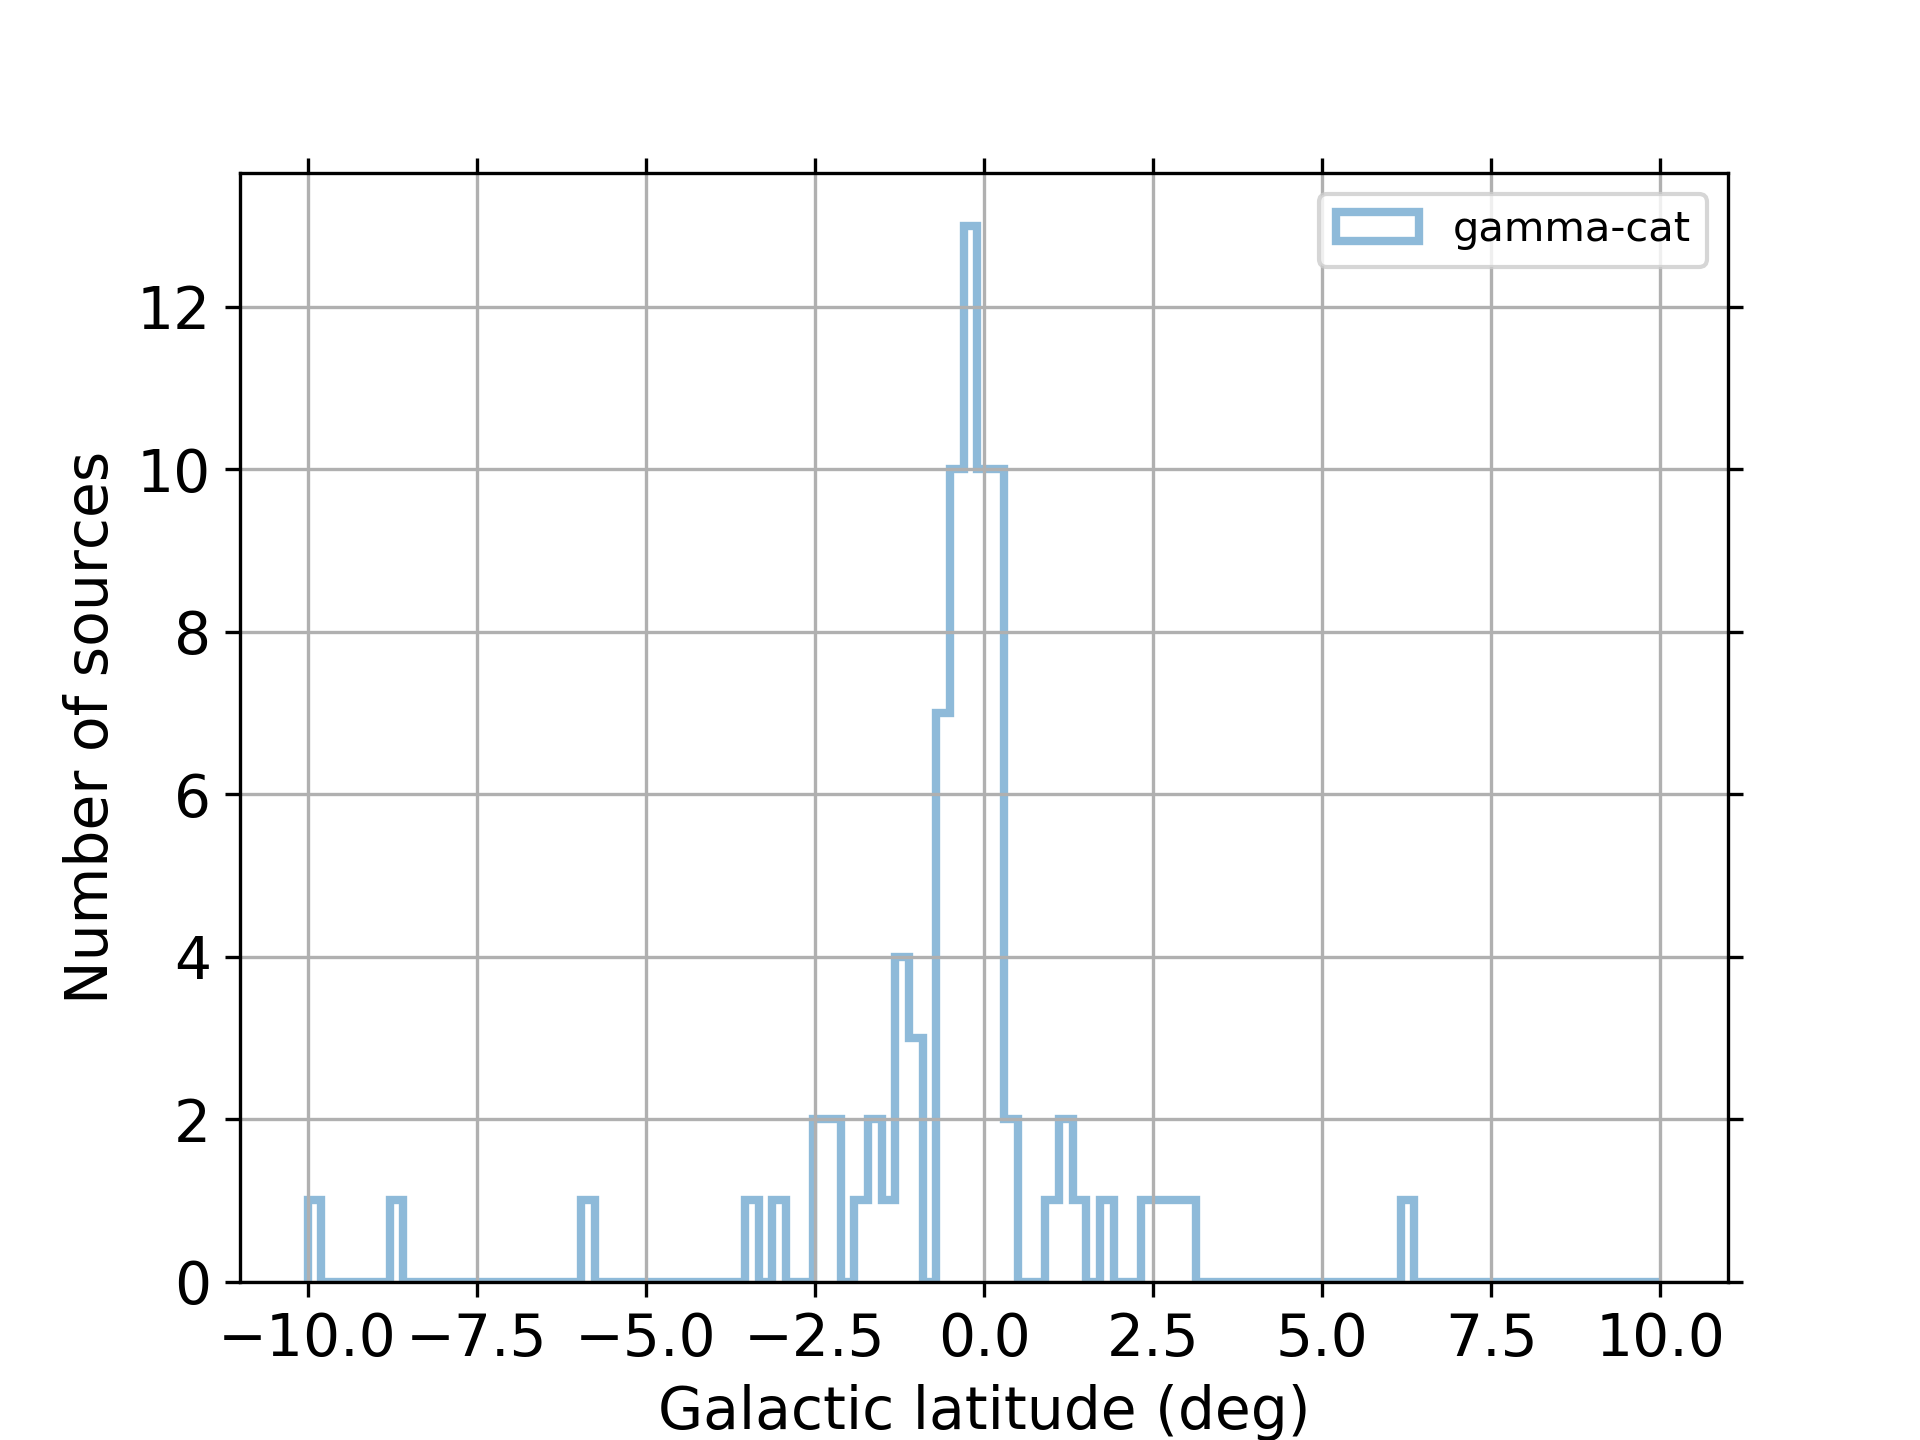
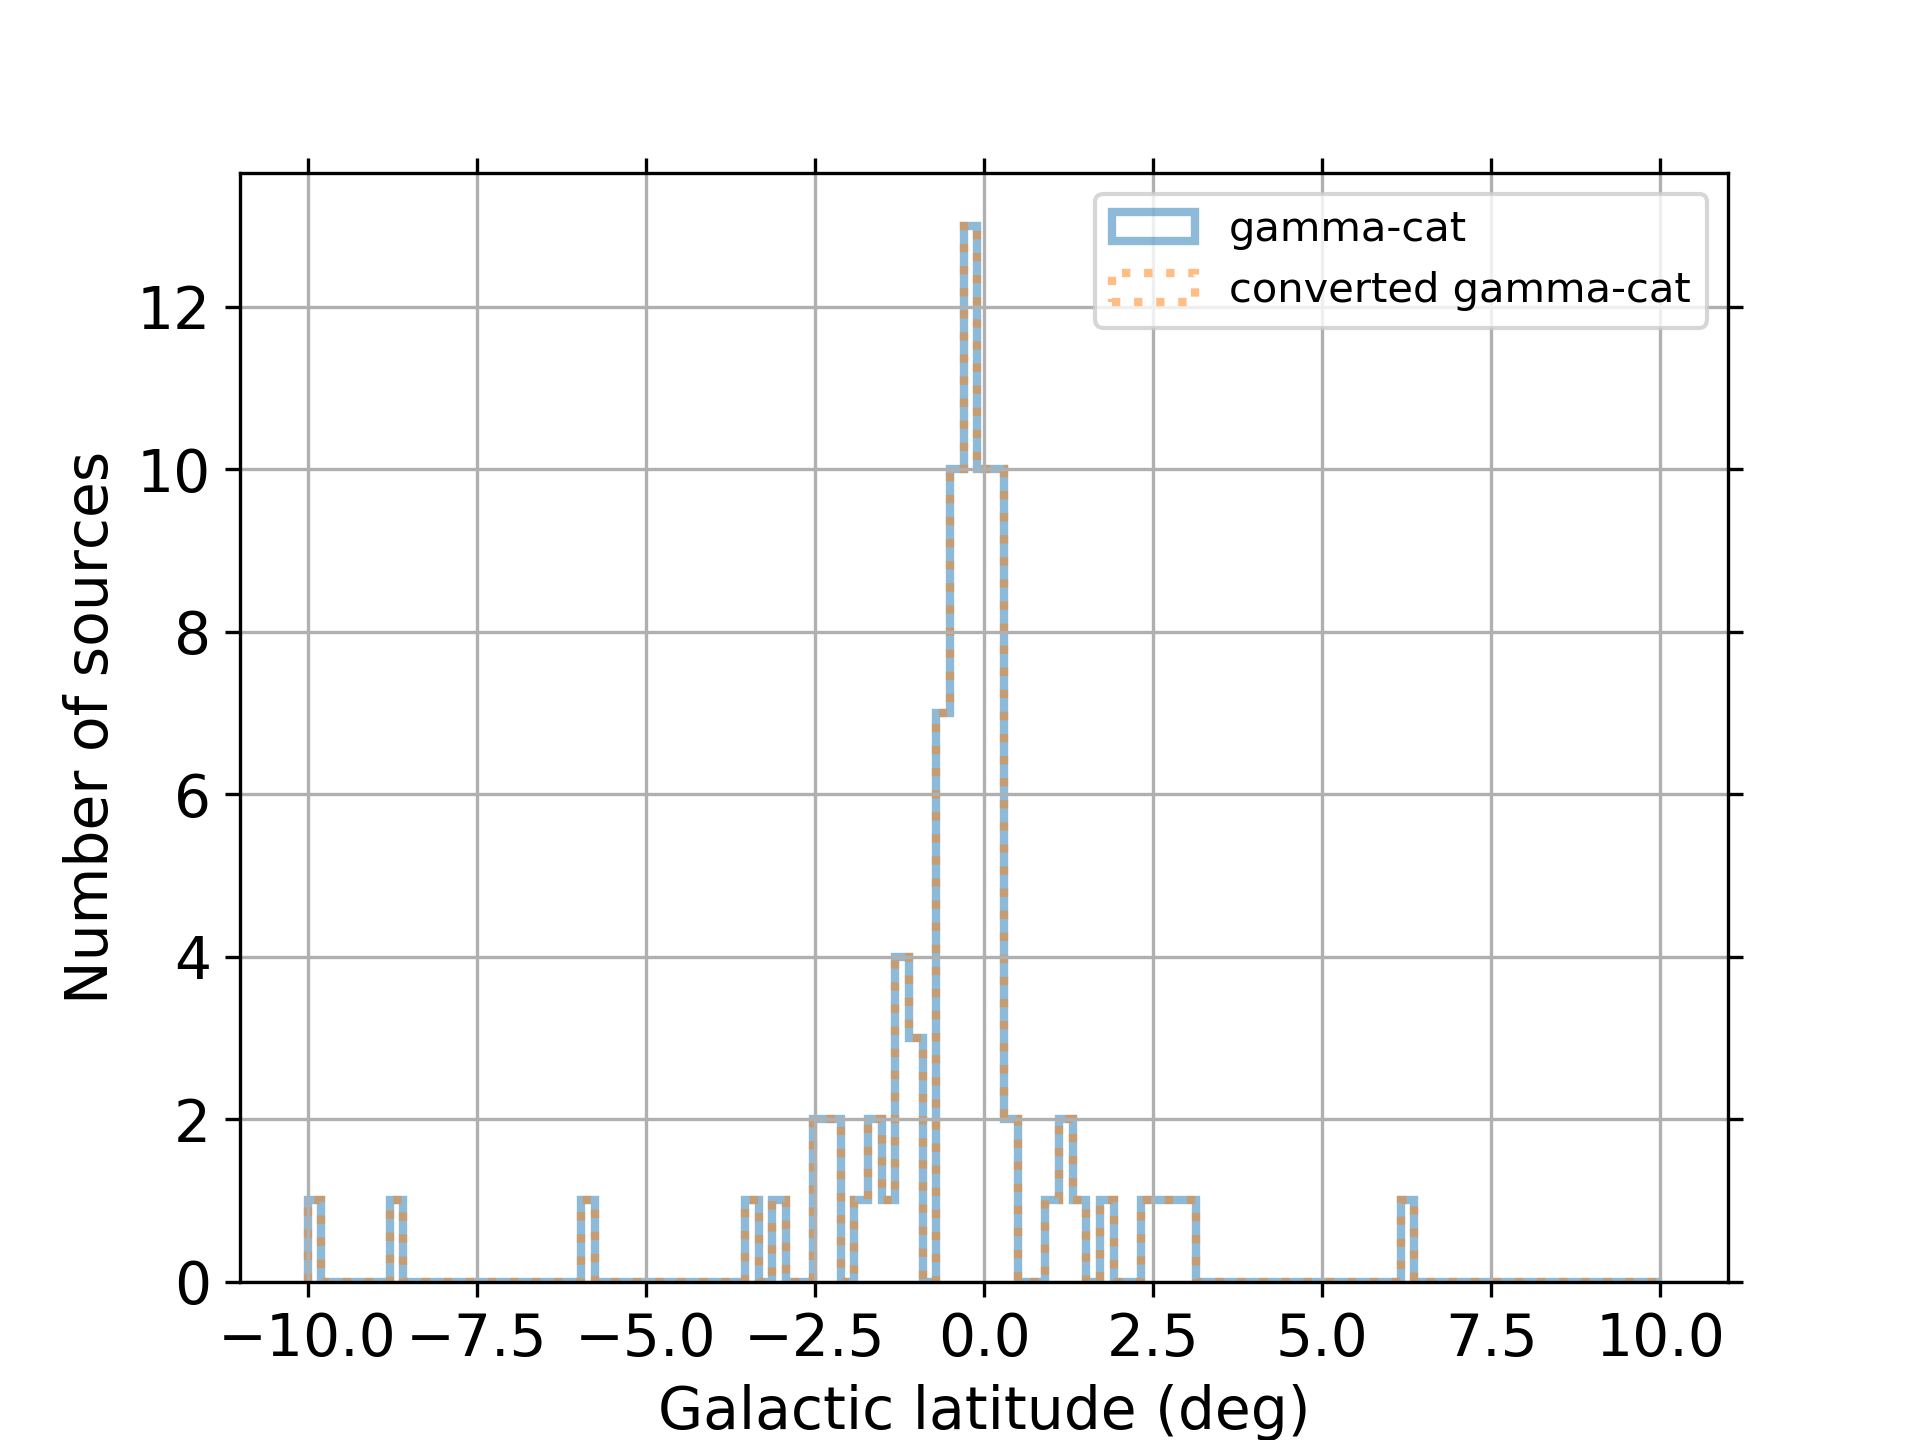
working on diagnostic plots
also fixed issue with max energy for PL2 models

diff --git a/skymodel/scripts/make_model.py b/skymodel/scripts/make_model.py
@@ -118,12 +118,14 @@ for source in gammacat:
                 flux = source['spec_pl2_flux']
                 emin = source['spec_pl2_e_min']
                 emax = source['spec_pl2_e_max']
+                if np.isnan(emax):
+                    emax = 1.e6
                 # for sources modeled by PL2 take pivot energy at 1 TeV
                 eref = gammalib.GEnergy(1., 'TeV')
                 norm = flux * (-index + 1) / (
                         np.power(emax, -index + 1) - np.power(emin, -index + 1))
             # convert norm from ph cm-2 s-1 TeV-1 (gamma-cat) to ph cm-2 s-1 MeV-1 (gammalib)
-            norm *= 1.e6
+            norm *= 1.e-6
             if False:
                 # implement fake PeVatron correction
                 pass
@@ -137,7 +139,7 @@ for source in gammacat:
             eref = gammalib.GEnergy(np.double(source['spec_ecpl_e_ref']), 'TeV')
             ecut = gammalib.GEnergy(np.double(source['spec_ecpl_e_cut']), 'TeV')
             # convert norm from ph cm-2 s-1 TeV-1 (gamma-cat) to ph cm-2 s-1 MeV-1 (gammalib)
-            norm *= 1.e6
+            norm *= 1.e-6
             index = np.double(index)
             norm = np.double(norm)
             spectral = gammalib.GModelSpectralExpPlaw(norm, -index, eref, ecut)
@@ -156,6 +158,8 @@ for source in gammacat:
             gammacat_lats.append(lat)
             gammacat_flux.append(source['spec_flux_1TeV_crab'])
 
+print('Added {} gamma-cat sources'.format(len(gammacat_ids)))
+
 # renormalize gamma-cat flux so that they are in Crab units
 gammacat_flux = np.array(gammacat_flux)
 gammacat_flux *= 1.e-2
@@ -172,6 +176,34 @@ ax2.hist(gammacat_lons, bins=bins_lon, density=False, histtype='step',
 ax3.hist(gammacat_lats, bins=bins_lat, density=False, histtype='step',
          label='gamma-cat', alpha=0.5, linewidth=2)
 
+# make distributions from gammalib model container
+lons, lats, fluxes = dist_from_gammalib(models)
+# change lon range from 0...360 to -180...180
+lons = np.array(lons)
+lons[lons > 180] = lons[lons > 180] - 360.
+ax1.hist(fluxes, bins=bins_lognlogs, density=False, histtype='step', cumulative=-1,
+         label='converted gamma-cat', alpha=0.5, linewidth=2, linestyle=':')
+ax2.hist(lons, bins=bins_lon, density=False, histtype='step',
+         label='converted gamma-cat', alpha=0.5, linewidth=2, linestyle=':')
+ax3.hist(lats, bins=bins_lat, density=False, histtype='step',
+         label='converted gamma-cat', alpha=0.5, linewidth=2, linestyle=':')
+
+# add templates
+
+# add binaries
+
+# add pulsars
+
+# add SFR
+
+# add HAWC and 3FHL
+
+# add CHECKS for duplicated sources !!!!!!!!!!!!!!!!!!
+
+# add synthetic PWNe and SNRs
+
+# add IEM
+
 # add CTA background
 # power law spectral correction with pivot energy at 1 TeV
 spectral = gammalib.GModelSpectralPlaw(1, 0, gammalib.GEnergy(1, 'TeV'))
@@ -181,6 +213,7 @@ bkgmodel.name('Background')
 bkgmodel.instruments('CTA')
 # append to models
 models.append(bkgmodel)
+print('Added background model')
 
 # save models
 models.save('../output/models_gps.xml')
@@ -189,7 +222,7 @@ models.save('../output/models_gps.xml')
 ax1.legend()
 fig1.savefig('../output/logNlogS.png', dpi=300)
 ax2.legend()
-ax2.set_xlim(180,-180)
+ax2.set_xlim(180, -180)
 fig2.savefig('../output/glon.png', dpi=300)
 ax3.legend()
 fig3.savefig('../output/glat.png', dpi=300)

diff --git a/skymodel/scripts/utils.py b/skymodel/scripts/utils.py
@@ -1,3 +1,5 @@
+import gammalib
+
 def format_ax(ax):
     for tick in ax.xaxis.get_major_ticks():
         tick.label.set_fontsize(14)
@@ -7,3 +9,22 @@ def format_ax(ax):
     ax.yaxis.set_ticks_position('both')
     ax.grid()
     return
+
+def dist_from_gammalib(models):
+    #extracts flux, longitude and latitude distribution from gammalib model container
+    fluxes = []
+    lons = []
+    lats = []
+    # energy boundaries for flux calculation
+    emin = gammalib.GEnergy(1.,'TeV')
+    emax = gammalib.GEnergy(1000,'TeV')
+    for model in models:
+        src_dir = model.spatial().dir()
+        lons.append(src_dir.l_deg())
+        lats.append(src_dir.b_deg())
+        flux = model.spectral().flux(emin,emax)
+        # convert to Crab units (Meyer model)
+        flux /= 2.0744340476909142e-11
+        fluxes.append(flux)
+
+    return lons, lats, fluxes
